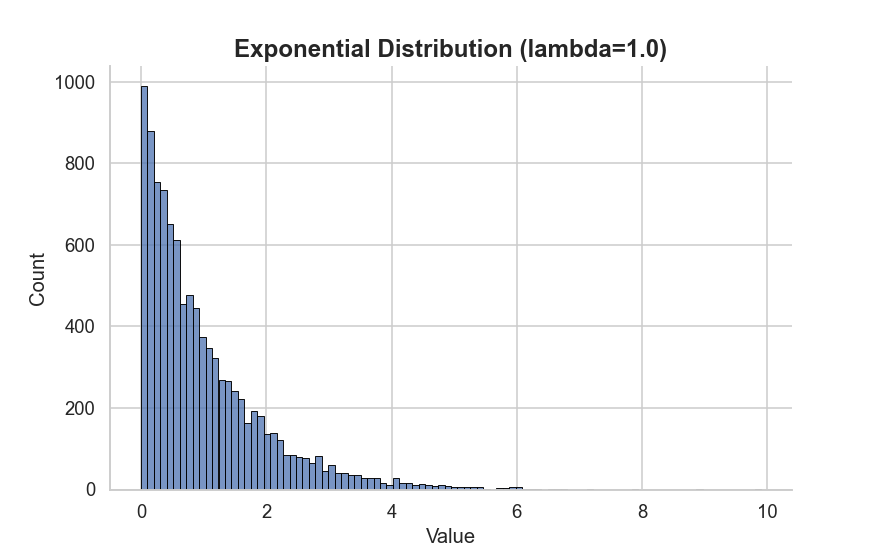
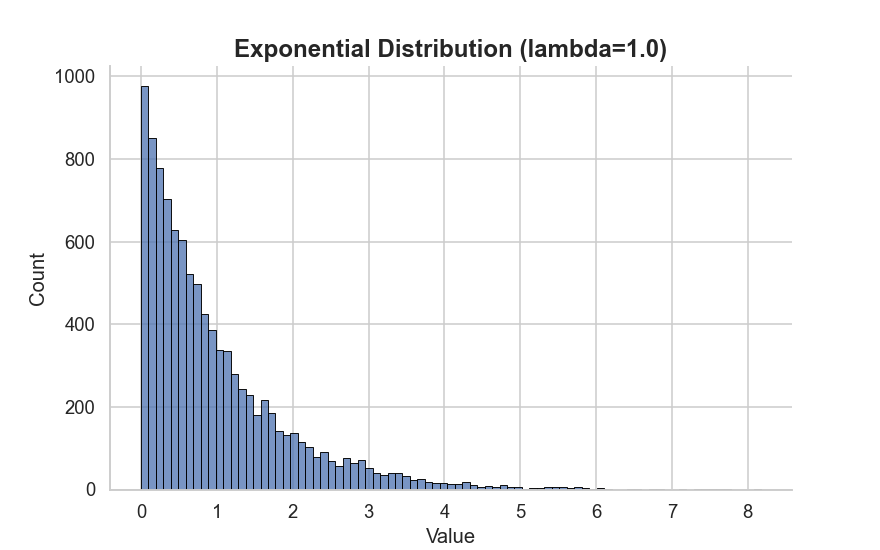
only missing task 4 - pareto simulation

diff --git a/exercises/day2/mathias/continous/ex3_cont.py b/exercises/day2/mathias/continous/ex3_cont.py
@@ -4,6 +4,8 @@ import seaborn as sns
 
 from utils.plotting import histogram
 
+np.random.seed(42)  # For reproducibility
+
 def exponential_dist(lambda_, size):
     U = np.random.random(size)
     return -np.log(1 - U) / lambda_
@@ -37,6 +39,23 @@ def pareto_dist(k, beta, size):
     dist = beta / (U ** (1 / k))
     return dist
 
+def gaussian_conf_intervals_mean(obs):
+    mean = np.mean(obs)
+    std = np.std(obs, ddof=1)
+    n = len(obs)
+    z_score = 1.96  # for 95% confidence
+    margin_of_error = z_score * (std / np.sqrt(n))
+    return mean - margin_of_error, mean + margin_of_error
+
+def gaussian_conf_intervals_variance(obs):
+    n = len(obs)
+    var = np.var(obs, ddof=1)
+    chi2_lower = np.percentile(np.random.chisquare(n - 1, size=10000), 2.5)
+    chi2_upper = np.percentile(np.random.chisquare(n - 1, size=10000), 97.5)
+    lower_bound = (n - 1) * var / chi2_upper
+    upper_bound = (n - 1) * var / chi2_lower
+    return lower_bound, upper_bound
+
 if __name__ == "__main__":
     # a) exponential dist
     SIZE = 10000
@@ -55,14 +74,64 @@ if __name__ == "__main__":
     
     # c) pareto distribution
     beta = 1.0
-    k = [2.05, 2.5, 3.0, 4.0]
+    k = np.array([2.05, 2.5, 3.0, 4.0])
     fig, axes = plt.subplots(2, 2, figsize=(12, 10))
+    theoretical_pareto_means = beta * k / (k - 1)
+    theoretical_pareto_variances = (beta ** 2) * k / ((k - 1) ** 2 * (k - 2))
+    sampled_pareto_means = []
+    sampled_pareto_variances = []
     for i, k_val in enumerate(k):
         samples = pareto_dist(k=k_val, beta=beta, size=SIZE)
+        sampled_pareto_means.append(float(np.mean(samples)))
+        sampled_pareto_variances.append(float(np.var(samples)))
         ax = axes[i // 2, i % 2]
         histogram(samples, bins="auto", discrete=False, title=f"Pareto Distribution (k={k_val}, beta={beta})", ax=ax)
         ax.set_title(f"Pareto Distribution (k={k_val}, beta={beta})")
     plt.tight_layout()
     plt.savefig("exercises/day2/mathias/continous/pareto_dist.png") 
     
-    # 
+    # 2) Analysis of the Pareto distribution
+    print("Theoretical Pareto Means:", theoretical_pareto_means)
+    print("Sampled Pareto Means:    ", sampled_pareto_means)
+    print("Theoretical Pareto Variances:", theoretical_pareto_variances)
+    print("Sampled Pareto Variances:    ", sampled_pareto_variances)
+    # note variance of pareto is not defined for k <= 2, and mean is not defined for k <= 1, which is reflected in the theoretical values.
+    
+    # 3) 100 95% confidence intervals from 10 samples for the
+    # mean and variance of a Gaussian distribution
+    gaussian_samples = gaussian_box_mueller(size=SIZE)[0] # Use only one
+    confidence_intervals = [gaussian_conf_intervals_mean(np.random.choice(gaussian_samples, size=10, replace=False)) for _ in range(100)]
+    print("Sample Confidence Intervals for the Mean of Gaussian Distribution:")
+    # plot spread of confidence intervals
+    lower_bounds = [ci[0] for ci in confidence_intervals]
+    upper_bounds = [ci[1] for ci in confidence_intervals]
+    plt.figure(figsize=(10, 6))
+    plt.plot(lower_bounds, label="Lower Bound", marker='o', linestyle='None')
+    plt.plot(upper_bounds, label="Upper Bound", marker='o', linestyle='None')
+    plt.axhline(y=0, color='r', linestyle='--', label="True Mean (0)")
+    plt.title("95% Confidence Intervals for the Mean of Gaussian Distribution")
+    plt.xlabel("Interval Index")
+    plt.ylabel("Value")
+    plt.legend()
+    plt.savefig("exercises/day2/mathias/continous/confidence_intervals.png")
+
+    # confidence intervals for variance
+    confidence_intervals_var = [gaussian_conf_intervals_variance(np.random.choice(gaussian_samples, size=10, replace=False)) for _ in range(100)]
+    print("Sample Confidence Intervals for the Variance of Gaussian Distribution:")
+    lower_bounds_var = [ci[0] for ci in confidence_intervals_var]
+    upper_bounds_var = [ci[1] for ci in confidence_intervals_var]
+    plt.figure(figsize=(10, 6))
+    plt.plot(lower_bounds_var, label="Lower Bound", marker='o', linestyle='None')
+    plt.plot(upper_bounds_var, label="Upper Bound", marker='o', linestyle='None')
+    plt.axhline(y=1, color='r', linestyle='--', label="True Variance (1)")
+    plt.title("95% Confidence Intervals for the Variance of Gaussian Distribution")
+    plt.xlabel("Interval Index")
+    plt.ylabel("Value")
+    plt.legend()
+    plt.savefig("exercises/day2/mathias/continous/confidence_intervals_variance.png")
+    
+    
+
+    
+
+    
